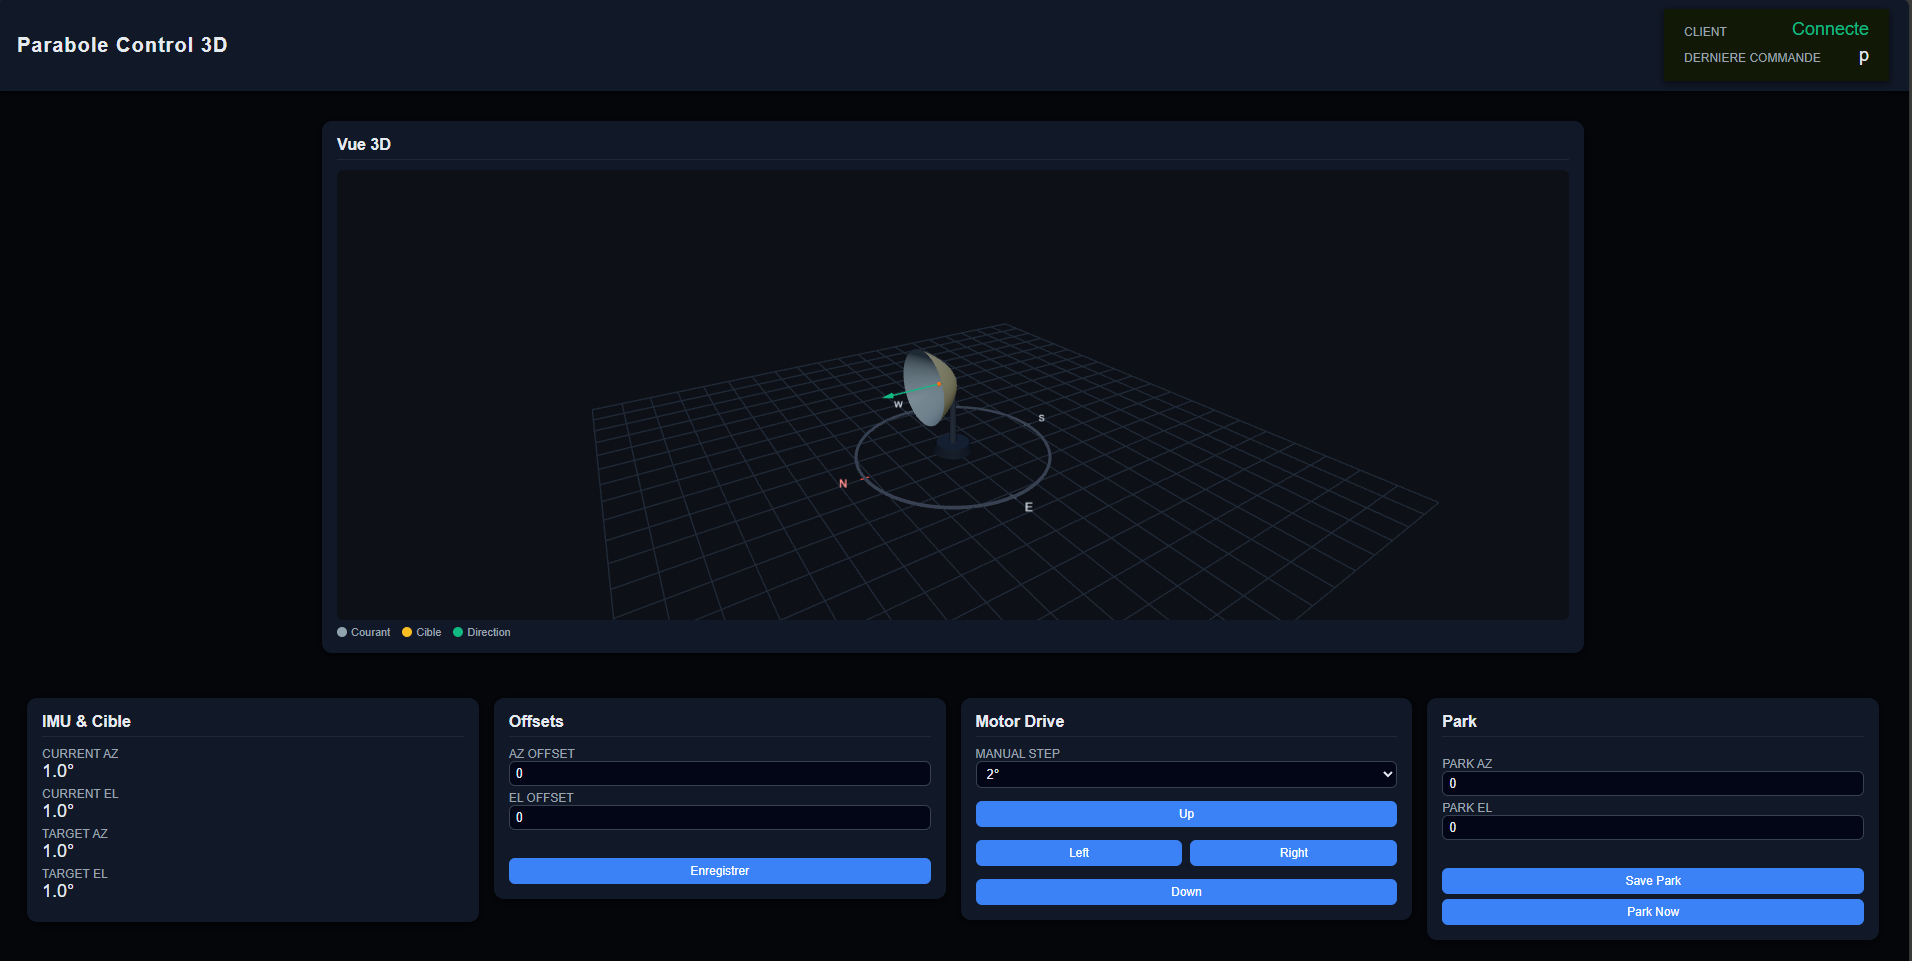
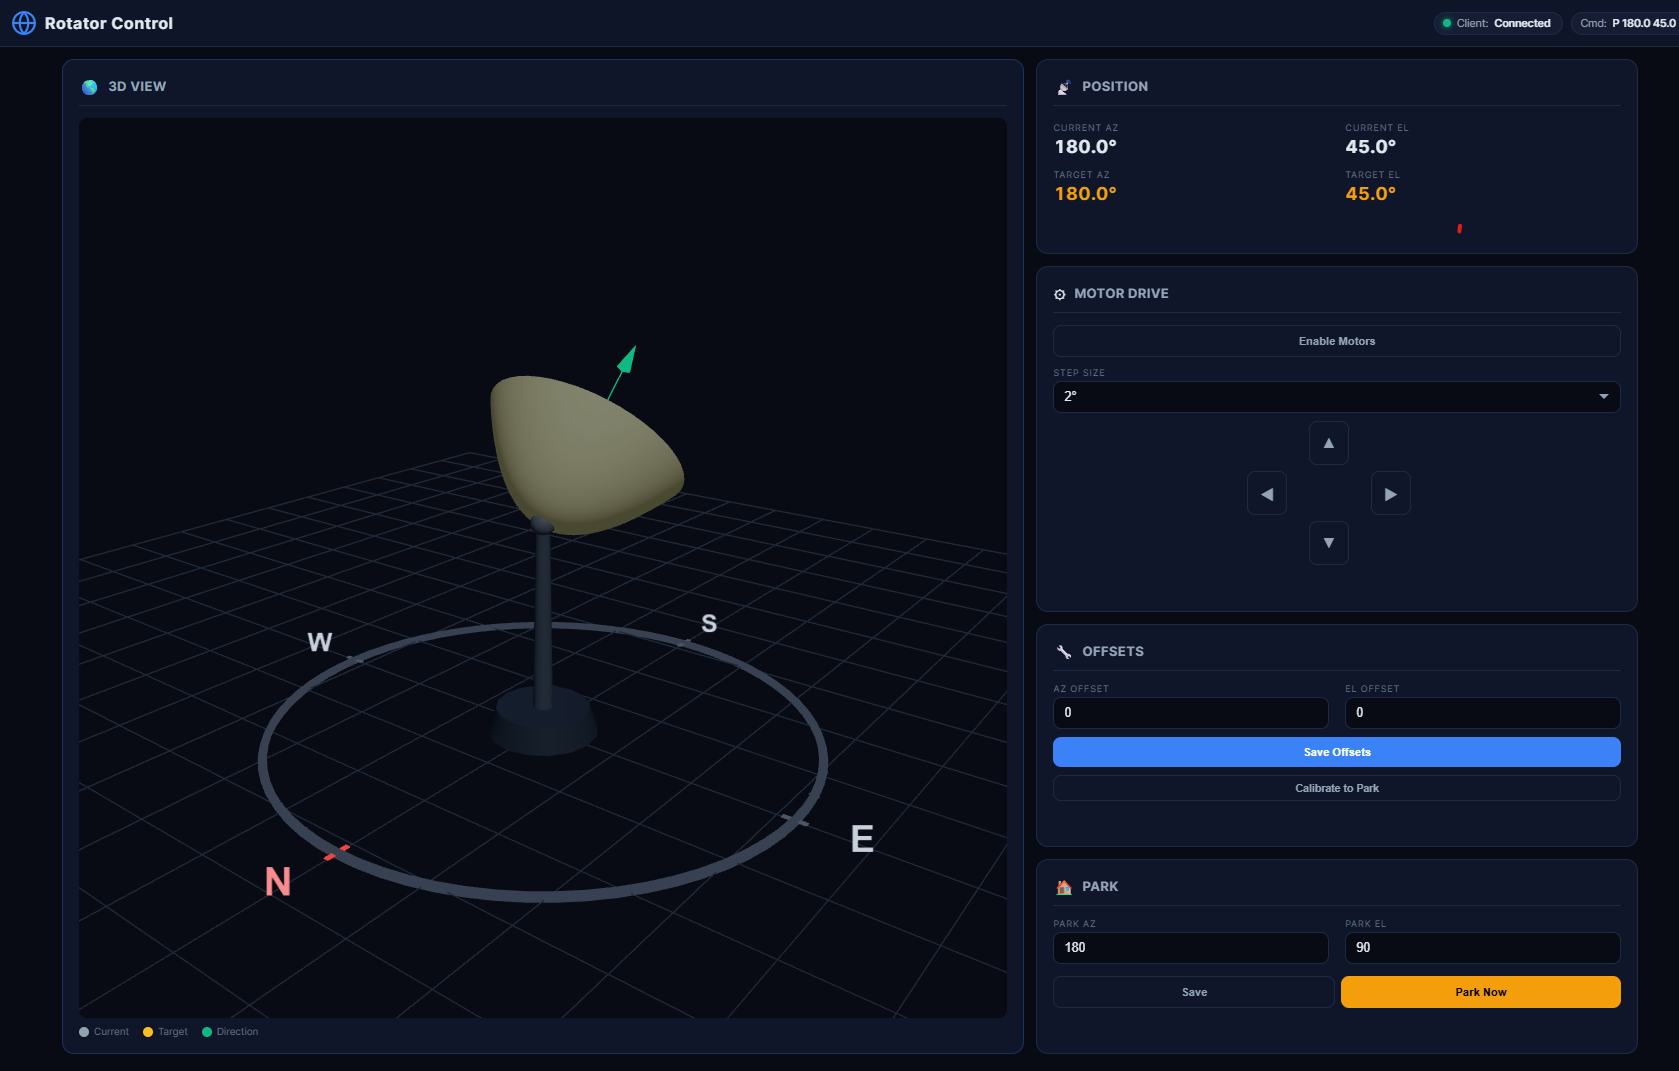
feat: ✨ Button enable motor always accessible

diff --git a/rotclt/index.html b/rotclt/index.html
@@ -38,6 +38,12 @@ body{font-family:'Inter','Segoe UI',system-ui,-apple-system,sans-serif;backgroun
 .chip-dot.off{background:var(--red);opacity:.7;}
 .chip-label{color:var(--text2);}
 .chip-value{color:var(--text);font-weight:600;}
+.chip-toggle{
+  cursor:pointer;user-select:none;transition:border-color .2s,background .2s;
+}
+.chip-toggle:hover{border-color:var(--accent);}
+.chip-toggle.active{border-color:var(--green);background:rgba(16,185,129,.12);}
+.chip-toggle .chip-dot{transition:background .2s,box-shadow .2s;}
 
 /* ── Layout ──────────────────────────── */
 .main{display:grid;gap:12px;padding:12px;grid-template-columns:1fr;max-width:1600px;margin:0 auto;}
@@ -210,6 +216,10 @@ select.form-input{cursor:pointer;appearance:none;
     <div class="chip">
       <span class="chip-label">Cmd:</span>
       <span class="chip-value" id="lastCmd">--</span>
+    </div>
+    <div class="chip chip-toggle" id="chipEnable" title="Toggle motor enable">
+      <span class="chip-dot off" id="chipEnDot"></span>
+      <span class="chip-value" id="chipEnLabel">Motors OFF</span>
     </div>
   </div>
 </header>
@@ -600,12 +610,21 @@ function updateUI() {
   if (document.activeElement !== parkElInput && !dirty.parkEl) parkElInput.value = D.parkEl;
 
   const eb = document.getElementById('enableBtn');
+  const enChip = document.getElementById('chipEnable');
+  const enDot = document.getElementById('chipEnDot');
+  const enLabel = document.getElementById('chipEnLabel');
   if (D.enable) {
     eb.textContent = 'Disable Motors';
     eb.className = 'btn btn-enable btn-block active';
+    enChip.classList.add('active');
+    enDot.className = 'chip-dot on';
+    enLabel.textContent = 'Motors ON';
   } else {
     eb.textContent = 'Enable Motors';
     eb.className = 'btn btn-outline btn-enable btn-block';
+    enChip.classList.remove('active');
+    enDot.className = 'chip-dot off';
+    enLabel.textContent = 'Motors OFF';
   }
 }
 
@@ -661,11 +680,13 @@ document.getElementById('saveParkBtn').addEventListener('click', () => {
   updateUI();
 });
 
-document.getElementById('enableBtn').addEventListener('click', () => {
+function toggleEnable() {
   D.enable = D.enable ? 0 : 1;
   D.lastCmd = D.enable ? 'Motors enabled' : 'Motors disabled';
   updateUI();
-});
+}
+document.getElementById('enableBtn').addEventListener('click', toggleEnable);
+document.getElementById('chipEnable').addEventListener('click', toggleEnable);
 
 document.getElementById('setParkBtn').addEventListener('click', () => {
   D.currentAz = normalizeAz(D.parkAz);

diff --git a/rotclt/WebUi.cpp b/rotclt/WebUi.cpp
@@ -67,6 +67,12 @@ body{font-family:'Inter','Segoe UI',system-ui,-apple-system,sans-serif;backgroun
 .chip-dot.off{background:var(--red);opacity:.7;}
 .chip-label{color:var(--text2);}
 .chip-value{color:var(--text);font-weight:600;}
+.chip-toggle{
+  cursor:pointer;user-select:none;transition:border-color .2s,background .2s;
+}
+.chip-toggle:hover{border-color:var(--accent);}
+.chip-toggle.active{border-color:var(--green);background:rgba(16,185,129,.12);}
+.chip-toggle .chip-dot{transition:background .2s,box-shadow .2s;}
 
 /* ── Layout ──────────────────────────── */
 .main{display:grid;gap:12px;padding:12px;grid-template-columns:1fr;max-width:1600px;margin:0 auto;}
@@ -232,6 +238,10 @@ select.form-input{cursor:pointer;appearance:none;
     <div class="chip">
       <span class="chip-label">Cmd:</span>
       <span class="chip-value" id="lastCmd">--</span>
+    </div>
+    <div class="chip chip-toggle" id="chipEnable" title="Toggle motor enable">
+      <span class="chip-dot off" id="chipEnDot"></span>
+      <span class="chip-value" id="chipEnLabel">Motors OFF</span>
     </div>
   </div>
 </header>
@@ -607,12 +617,21 @@ function updateUI() {
   if (document.activeElement !== parkElInput && !dirty.parkEl) parkElInput.value = D.parkEl;
 
   const eb = document.getElementById('enableBtn');
+  const enChip = document.getElementById('chipEnable');
+  const enDot = document.getElementById('chipEnDot');
+  const enLabel = document.getElementById('chipEnLabel');
   if (D.enable) {
     eb.textContent = 'Disable Motors';
     eb.className = 'btn btn-enable btn-block active';
+    enChip.classList.add('active');
+    enDot.className = 'chip-dot on';
+    enLabel.textContent = 'Motors ON';
   } else {
     eb.textContent = 'Enable Motors';
     eb.className = 'btn btn-outline btn-enable btn-block';
+    enChip.classList.remove('active');
+    enDot.className = 'chip-dot off';
+    enLabel.textContent = 'Motors OFF';
   }
 }
 
@@ -665,10 +684,12 @@ document.getElementById('saveParkBtn').addEventListener('click', () => {
     });
 });
 
-document.getElementById('enableBtn').addEventListener('click', () => {
+function toggleEnable() {
   const newState = D.enable ? 0 : 1;
   fetch('/enable?state=' + newState).then(() => setTimeout(fetchData, 300));
-});
+}
+document.getElementById('enableBtn').addEventListener('click', toggleEnable);
+document.getElementById('chipEnable').addEventListener('click', toggleEnable);
 
 document.getElementById('setParkBtn').addEventListener('click', () => {
   fetch('/calibrate').then(() => setTimeout(fetchData, 120));

diff --git a/rotclt/README.md b/rotclt/README.md
@@ -11,8 +11,8 @@ An ESP8266-based antenna rotator controller that implements the **Hamlib rotctld
 | **Axes** | Azimuth (0–360°) + Elevation (0–90°) |
 | **Actuators** | 2× NEMA 17 stepper motors via step/dir drivers (A4988 / DRV8825) |
 | **Resolution** | AZ: 27 106 steps/rev (0.0133°/step), EL: 9 743 steps/rev (0.0369°/step) |
-| **Web UI** | Built-in HTTP server on port 80 with interactive 3D view |
-| **Storage** | EEPROM — persists AZ/EL offsets and park position |
+| **Web UI** | Built-in HTTP server on port 80 with responsive 3D view |
+| **Storage** | EEPROM — persists AZ/EL offsets, park position, and current position |
 | **LED** | Status indicator (WiFi search / idle / client connected) |
 
 ### Supported rotctld Commands
@@ -46,22 +46,51 @@ Stepper configuration: NEMA 17 (200 full steps/rev) with 16× microstepping on A
 
 ---
 
+## Architecture
+
+The project follows a modular, class-based architecture. The main sketch (`rotclt.ino`) is a thin orchestrator (~80 lines) that wires together the following modules:
+
+```
+rotclt.ino              ← setup/loop, creates all objects
+├── AppState.h          ← shared state struct (positions, offsets, flags)
+├── Logger.h/cpp        ← static logging class with level filtering (DEBUG/INFO/WARN/ERROR)
+├── AngleUtils.h        ← inline angle math utilities (normalize, clamp, shortest delta)
+├── WifiManager.h/cpp   ← WiFi connection lifecycle (scan, connect, retry)
+├── HttpHandler.h/cpp   ← HTTP route handlers (all web endpoints)
+├── WebUi.h/cpp         ← HTML/CSS/JS page generation (Three.js 3D visualization)
+├── RotctlService.h/cpp ← Hamlib rotctld TCP server (port 4533)
+├── MotorDriver.h/cpp   ← AccelStepper wrapper for dual-axis stepper control
+├── OffsetStore.h/cpp   ← EEPROM persistence (offsets, park, current position)
+├── LedIndicator.h/cpp  ← non-blocking LED blink patterns
+└── index.html          ← standalone browser test page (no ESP needed)
+```
+
+### Key Design Decisions
+
+- **Shared `AppState`** struct passed by reference to all modules — avoids globals and coupling.
+- **`Logger`** static class replaces all raw `Serial.println` calls — supports tagged, leveled output (`[INF][MOTOR] homing done`).
+- **`AngleUtils`** header-only namespace eliminates duplicated angle math that was in 3 files.
+- **Position auto-save** — current AZ/EL written to EEPROM every 5 s when position changes ≥ 0.1°.
+
+---
+
 ## Web UI Preview
 
-The built-in web interface serves an interactive **Three.js 3D visualization** of the dish with real-time position updates (polled every 600 ms).
-
+The built-in web interface serves an interactive **Three.js 3D visualization** of the dish with real-time position updates (polled every 600 ms). The UI is fully responsive with dedicated mobile, tablet, and desktop layouts.
 
 ![](ihm.png)
 
-### UI Panels
+### UI Features
 
-| Panel | Function |
+| Feature | Description |
 |---|---|
-| **Vue 3D** | Interactive Three.js scene — parabolic dish on a mast with compass rose, current position (grey), target position (gold wireframe), and direction arrow (green). Supports mouse orbit/zoom. |
-| **IMU & Cible** | Displays current and target azimuth/elevation in real time. |
+| **3D View** | Interactive Three.js scene — parabolic dish on a mast with compass rose, current position (grey), target position (gold wireframe), and direction arrow (green). Supports mouse orbit/zoom. |
+| **Status Bar** | Sticky top bar showing current AZ/EL, target, enable state, and client connection. |
+| **Position** | Real-time display of current and target azimuth/elevation. |
 | **Offsets** | Set AZ/EL calibration offsets (saved to EEPROM). |
-| **Motor Drive** | Manual nudge buttons (Up/Down/Left/Right) with selectable step size (0.5°–5°). |
+| **Manual Control** | D-pad for manual nudge (Up/Down/Left/Right) with selectable step size (0.5°–5°). |
 | **Park** | Configure and trigger a park position. |
+| **Mobile Tab Bar** | Bottom navigation (3D / Controls / Park) with quick-access d-pad overlay on the 3D view. |
 
 ### HTTP Endpoints
 
@@ -73,6 +102,8 @@ The built-in web interface serves an interactive **Three.js 3D visualization** o
 | `/setpark?az=&el=` | GET | Set park position |
 | `/park` | GET | Move to park position |
 | `/manual?d=&s=` | GET | Manual nudge (`d`=up/down/left/right, `s`=step degrees) |
+| `/enable?v=0\|1` | GET | Enable/disable motor drivers |
+| `/calibrate?az=&el=` | GET | Set current position as reference |
 
 ---
 
@@ -82,10 +113,11 @@ The built-in web interface serves an interactive **Three.js 3D visualization** o
 graph LR
   subgraph ESP8266["ESP8266 (NodeMCU / Wemos D1 Mini)"]
     GPIO2["GPIO 2 · D4\n(Built-in LED)"]
-    GPIO5["GPIO 5 · D1\n(AZ STEP)"]
-    GPIO4["GPIO 4 · D2\n(AZ DIR)"]
+    GPIO5["GPIO 5 · D1\n(ENABLE)"]
+    GPIO12["GPIO 12 · D6\n(AZ STEP)"]
+    GPIO13["GPIO 13 · D7\n(AZ DIR)"]
     GPIO14["GPIO 14 · D5\n(EL STEP)"]
-    GPIO12["GPIO 12 · D6\n(EL DIR)"]
+    GPIO15["GPIO 15 · D8\n(EL DIR)"]
     VCC["3.3V"]
     GND["GND"]
     VIN["VIN (5V)"]
@@ -94,12 +126,14 @@ graph LR
   subgraph AZ_DRV["AZ Driver (A4988 / DRV8825)"]
     AZ_STEP["STEP"]
     AZ_DIR["DIR"]
+    AZ_EN["ENABLE"]
     AZ_MOT["NEMA 17\nAzimuth"]
   end
 
   subgraph EL_DRV["EL Driver (A4988 / DRV8825)"]
     EL_STEP["STEP"]
     EL_DIR["DIR"]
+    EL_EN["ENABLE"]
     EL_MOT["NEMA 17\nElevation"]
   end
 
@@ -112,13 +146,15 @@ graph LR
     LED["Built-in LED\n(active-low)"]
   end
 
-  GPIO5 -- "STEP" --> AZ_STEP
-  GPIO4 -- "DIR" --> AZ_DIR
+  GPIO12 -- "STEP" --> AZ_STEP
+  GPIO13 -- "DIR" --> AZ_DIR
+  GPIO5 -- "EN" --> AZ_EN
   AZ_STEP --> AZ_MOT
   AZ_DIR --> AZ_MOT
 
   GPIO14 -- "STEP" --> EL_STEP
-  GPIO12 -- "DIR" --> EL_DIR
+  GPIO15 -- "DIR" --> EL_DIR
+  GPIO5 -- "EN" --> EL_EN
   EL_STEP --> EL_MOT
   EL_DIR --> EL_MOT
 
@@ -141,14 +177,16 @@ graph LR
 | GPIO | NodeMCU Label | Function |
 |---|---|---|
 | 2 | D4 | Status LED (active-low, built-in on most boards) |
-| 5 | D1 | Azimuth stepper — STEP |
-| 4 | D2 | Azimuth stepper — DIR |
+| 5 | D1 | Motor driver ENABLE (shared) |
+| 12 | D6 | Azimuth stepper — STEP |
+| 13 | D7 | Azimuth stepper — DIR |
 | 14 | D5 | Elevation stepper — STEP |
-| 12 | D6 | Elevation stepper — DIR |
+| 15 | D8 | Elevation stepper — DIR |
 
 ### Wiring Notes
 
-- Each stepper driver (A4988 or DRV8825) needs **STEP**, **DIR**, **VMOT**, **GND**, and motor coil connections. Set the microstepping jumpers to **16×** (all three jumpers HIGH on A4988; M0=low M1=low M2=high on DRV8825).
+- Each stepper driver (A4988 or DRV8825) needs **STEP**, **DIR**, **ENABLE**, **VMOT**, **GND**, and motor coil connections. Set the microstepping jumpers to **16×** (all three jumpers HIGH on A4988; M0=low M1=low M2=high on DRV8825).
+- The **ENABLE** pin (GPIO 5) is shared between both drivers — a single signal enables/disables both motors.
 - **VMOT** is powered from a **12 V** supply rated for at least 2 A (both drivers share it). A 100 µF electrolytic capacitor across VMOT/GND on each driver is recommended.
 - Feed the ESP8266 through **VIN** from a 5 V regulator (or buck converter) off the 12 V rail.
 - The built-in LED on GPIO 2 is active-low — no external resistor needed.
@@ -202,9 +240,32 @@ graph LR
 
 ---
 
+## File Structure
+
+```
+rotclt/
+├── rotclt.ino           Main sketch (setup + loop)
+├── AppState.h           Shared state struct
+├── AngleUtils.h         Angle math utilities (header-only)
+├── Logger.h / .cpp      Leveled logging (static class)
+├── WifiManager.h / .cpp WiFi connection manager
+├── HttpHandler.h / .cpp HTTP route handlers
+├── WebUi.h / .cpp       HTML page generation (Three.js UI)
+├── RotctlService.h / .cpp  Hamlib rotctld TCP server
+├── MotorDriver.h / .cpp Dual-axis stepper driver
+├── OffsetStore.h / .cpp EEPROM persistence
+├── LedIndicator.h / .cpp LED blink patterns
+├── index.html           Standalone test page (browser-only)
+├── ihm.png              UI screenshot
+└── README.md
+```
+
+---
+
 ## Usage
 
 1. Power on the ESP8266 — the LED blinks fast while connecting to WiFi.
 2. Once connected, the LED slows to a 1 s blink. Find the IP on Serial (115200 baud).
 3. Open `http://<ip>/` in a browser for the 3D control panel.
 4. Point your tracking software (SatDump, Gpredict, etc.) at `<ip>:4533` using the rotctld protocol.
+5. Open `index.html` locally in a browser to preview the UI without an ESP8266.
